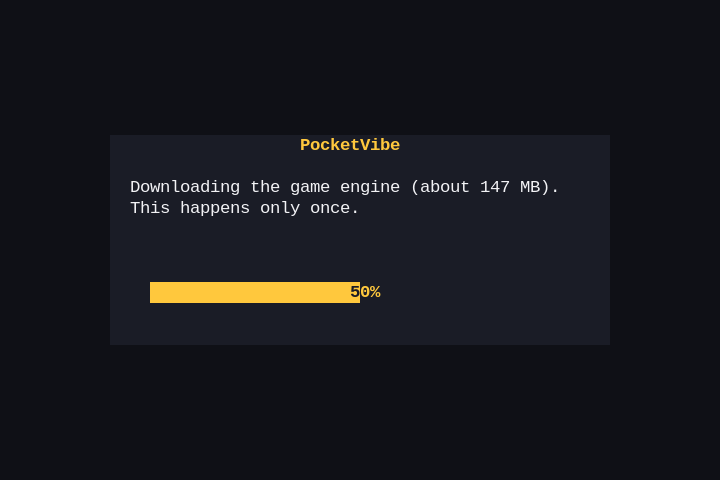
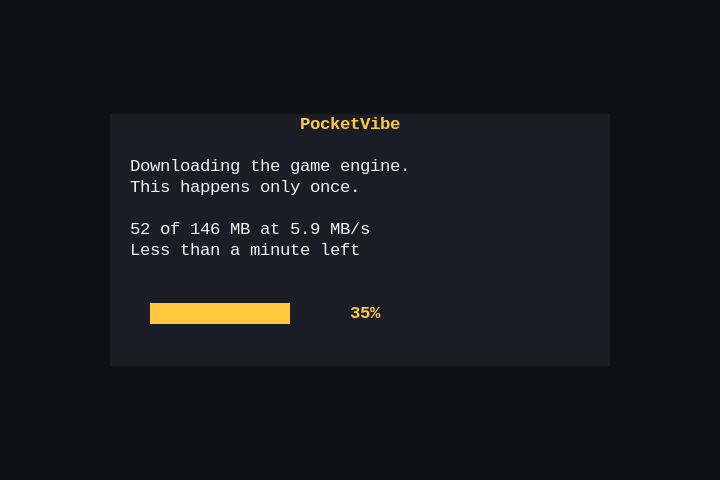
README, guide and site: what the first start looks like now, sizes and time measured on a fresh install

Changed region(s): [[0.1833, 0.25, 0.7639, 0.5312], [0.1833, 0.5625, 0.55, 0.6875]]

diff --git a/site/index.html b/site/index.html
@@ -109,8 +109,8 @@
           <li>
             <kbd>1</kbd>
             <div>
-              <h3><a href="https://pocketvibe.cobanov.dev/download/rocknix">Download PocketVibe.zip</a></h3>
-              <p>The handheld needs Wi-Fi for the store.</p>
+              <h3><a href="/download/rocknix">Download PocketVibe.zip</a></h3>
+              <p>5 MB. The handheld needs ROCKNIX, Wi-Fi and about 1 GB free on its SD card.</p>
             </div>
           </li>
           <li>
@@ -125,8 +125,9 @@
             <div>
               <h3>Restart, then open Ports and PocketVibe</h3>
               <p>
-                The first start downloads the game engine, about 150 MB, in about two minutes over
-                Wi-Fi. After that PocketVibe opens in seconds and keeps itself up to date.
+                The first start downloads and installs the game engine, about 150 MB, in about a
+                minute and a half over Wi-Fi. Then PocketVibe opens with five games, in seconds
+                from then on, and keeps itself up to date.
               </p>
             </div>
           </li>

diff --git a/README.md b/README.md
@@ -30,7 +30,9 @@ porting needed: unzip it once and it keeps itself up to date.
 
 ## Your game, in your hands.
 
-- **Get games from the store.** Pick one, watch it download, and play. Updates show up on their own.
+- **Get games from the store.** PocketVibe starts with five games, and the store has more: pick one, watch it download, and play. Updates show up on their own.
+- **Fits every screen.** Games fill 3:2, 4:3, 16:9 and square screens, and on the two-screen Anbernic RG DS a game can use both, like Turbo Circuit's map and standings below the race.
+- **Feels like a console.** Menus have their own sounds and music, and everything works with the handheld's buttons.
 - **Start from a project that knows the handheld.** `npm create pocketvibe` sets up Vite and three.js with an `AGENTS.md` that teaches your AI tool the screen, the buttons and the performance budget.
 - **Keep it at 60 fps.** WPE WebKit draws with the handheld's GPU. Scenes that follow the rules ran at 60 fps on the H700; the same scenes written the usual way stayed under 6.
 - **Publish with one command.** `npx pocketvibe publish` builds your game and sends it to the store. You sign in with GitHub.
@@ -42,11 +44,17 @@ porting needed: unzip it once and it keeps itself up to date.
 Just curious? The [website](https://pocketvibe.cobanov.dev) runs the real launcher with the
 store's games in your browser.
 
-On your handheld:
+On your handheld, with ROCKNIX, Wi-Fi and about 1 GB free on the SD card:
 
-1. Download [PocketVibe.zip](https://pocketvibe.cobanov.dev/download/rocknix).
-2. Unzip it into `roms/ports` on the handheld's SD card.
-3. Restart the handheld and open **Ports**, then **PocketVibe**. The first start downloads the game engine, about 150 MB, over Wi-Fi.
+1. Download [PocketVibe.zip](https://pocketvibe.cobanov.dev/download/rocknix) (5 MB).
+2. Unzip it into `roms/ports` on the handheld's SD card, with a card reader or over the handheld's network share.
+3. Restart the handheld (or update the game lists) and open **Ports**, then **PocketVibe**.
+
+The first start downloads PocketVibe's game engine (about 150 MB) and installs it, with a
+progress bar for each step: about a minute and a half over Wi-Fi, once. Then it opens with
+five games, and updates itself from Settings from then on. If the handheld uses the libmali
+graphics driver, PocketVibe offers to switch to Panfrost with one press, so games run at
+full speed.
 
 On an Android handheld, download the newest APK from
 [pocketvibe.cobanov.dev/download/android](https://pocketvibe.cobanov.dev/download/android) and
@@ -62,7 +70,9 @@ On Android it runs on the Anbernic RG Rotate. Other handhelds may work, but are 
 ## Want to tinker?
 
 On the handheld, a small Python service and an HTML launcher run WPE WebKit and Cog from a
-Debian root. The store is a Cloudflare Worker with D1 and R2; the website is static.
+Debian root. The store is a Cloudflare Worker with D1 and R2; the website is static. The app
+and its engine are GitHub releases, downloaded through `pocketvibe.cobanov.dev/download/`, so
+where they are hosted can change without a new app.
 
 [Development](docs/development.md) ·
 [Rules for AI tools](template/AGENTS.md) ·

diff --git a/docs/getting-started.md b/docs/getting-started.md
@@ -7,16 +7,19 @@ on your computer. You can use either one without the other.
 
 You need a handheld running [ROCKNIX](https://rocknix.org) with Wi-Fi, and about 1 GB free on
 its SD card. PocketVibe is made on an Anbernic RG34XX SP and also runs on the two-screen
-Anbernic RG DS; other ROCKNIX handhelds may work. On a handheld that lets you choose its GPU
-driver (the RG DS does), choose Panfrost in the system settings: with libmali, games run slowly.
+Anbernic RG DS; other ROCKNIX handhelds may work. On a handheld that uses the libmali GPU
+driver (the RG DS does by default), PocketVibe offers to switch to Panfrost the first time it
+opens: with libmali, games run slowly.
 
-1. Download [PocketVibe.zip](https://pocketvibe.cobanov.dev/download/rocknix).
+1. Download [PocketVibe.zip](https://pocketvibe.cobanov.dev/download/rocknix) (5 MB).
 2. Unzip it into the `roms/ports` folder of the handheld's SD card. Put the card in your computer,
    or copy the files over the handheld's network share.
 3. Restart the handheld, open **Ports** and start **PocketVibe**.
 
-The first start downloads PocketVibe's game engine (WPE WebKit, about 150 MB) and sets it up.
-Over Wi-Fi this takes about two minutes, and it happens only once.
+The first start downloads PocketVibe's game engine (WPE WebKit, about 150 MB) and installs it,
+with a progress bar for each step. Over Wi-Fi this takes about a minute and a half, and it
+happens only once; if the connection drops, opening PocketVibe again picks up where it
+stopped. Then PocketVibe opens with five games.
 
 <p align="center">
   <img src="screenshots/first-run.png" alt="The first start downloading the game engine, with a progress bar" width="360">
